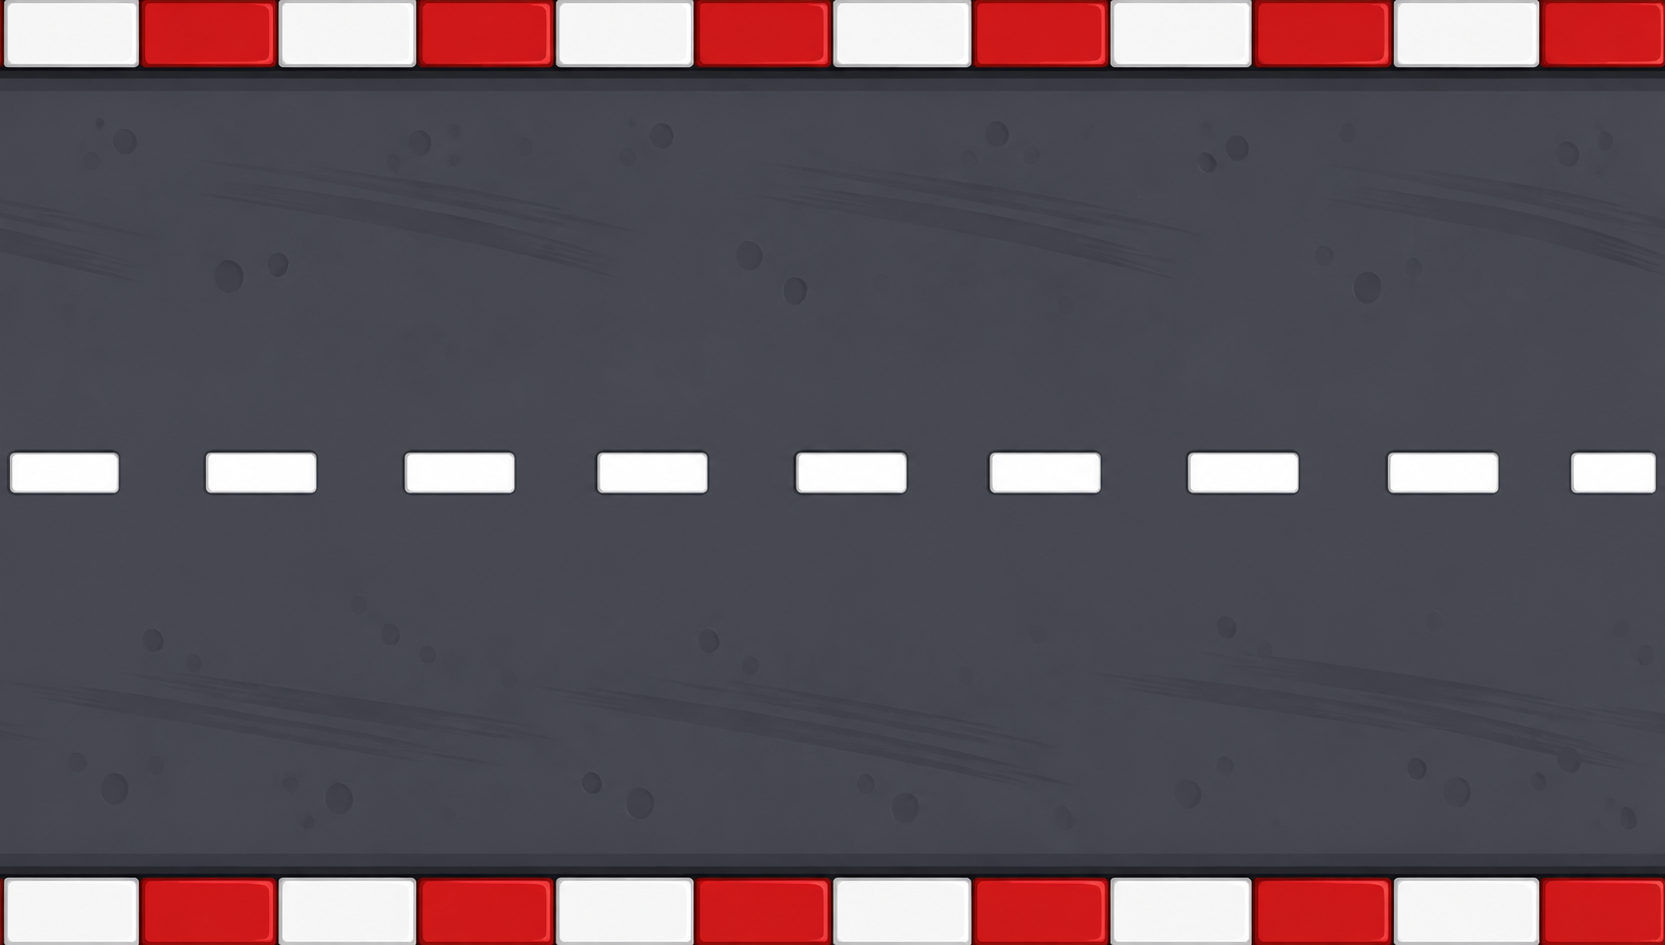
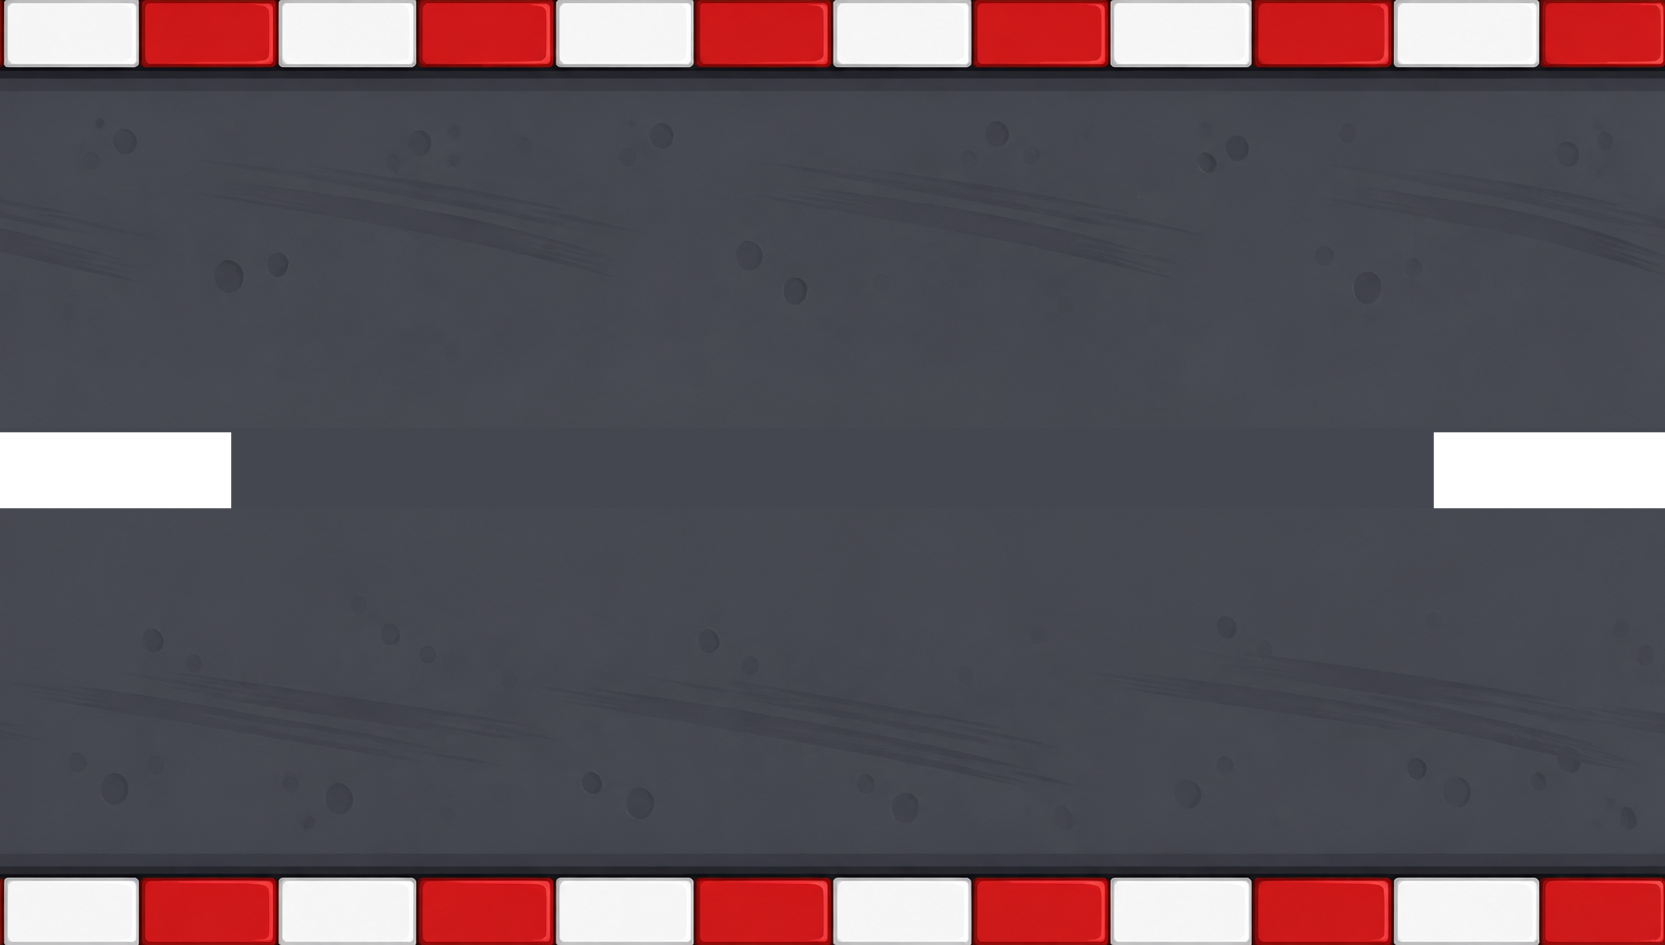
added game over screen

diff --git a/!.cpp b/!.cpp
@@ -37,6 +37,7 @@ const int STATE_MENU = 2;       // start screen
 const int STATE_HIGHSCORE = 3;  // high score screen
 int gameState = STATE_MENU;     // game starts on the menu
 int selectedOption = 0;         // 0 = Start Game, 1 = High Score, 2 = Quit
+int gameOverOption = 0;         // 0 = Play Again, 1 = Main Menu, 2 = Exit
 const string HIGH_SCORE_FILE = "highscore.txt";
 
 // player (position is stored as a grid cell, not pixels)
@@ -498,11 +499,35 @@ void drawHighScoreScreen(RenderWindow& window) {
     drawCenteredText(window, "Press ESC to Return to Menu", 24, 450, Color(180, 180, 180));
 }
 void drawGameOver(RenderWindow& window) {
-    drawRect(window, 0, 0, WINDOW_WIDTH, WINDOW_HEIGHT, Color(0, 0, 0, 200));   // dark layer
-    drawCenteredText(window, "GAME OVER", 60, 150, Color::Red);
-    drawCenteredText(window, "Score: " + to_string(score), 40, 250, Color::White);
-    drawCenteredText(window, "High Score: " + to_string(highScore), 40, 320, Color::Yellow);
-    drawCenteredText(window, "Press ENTER to Play Again", 30, 450, Color(200, 200, 200));
+    drawRect(window, 0, 0, WINDOW_WIDTH, WINDOW_HEIGHT, Color(20, 20, 30));
+    drawRect(window, 0, 0, WINDOW_WIDTH, 30, Color(40, 40, 60));
+    drawRect(window, 0, WINDOW_HEIGHT - 30, WINDOW_WIDTH, 30, Color(40, 40, 60));
+
+    drawCenteredText(window, "GAME OVER", 60, 110, Color::Red);
+    drawCenteredText(window, "Score: " + to_string(score) + "   |   High Score: " + to_string(highScore), 28, 195, Color::White);
+
+    if (gameOverOption == 0) {
+        drawCenteredText(window, "> Play Again", 32, 280, Color::Yellow);
+    }
+    else {
+        drawCenteredText(window, "  Play Again", 32, 280, Color::White);
+    }
+
+    if (gameOverOption == 1) {
+        drawCenteredText(window, "> Main Menu", 32, 340, Color::Yellow);
+    }
+    else {
+        drawCenteredText(window, "  Main Menu", 32, 340, Color::White);
+    }
+
+    if (gameOverOption == 2) {
+        drawCenteredText(window, "> Exit", 32, 400, Color::Yellow);
+    }
+    else {
+        drawCenteredText(window, "  Exit", 32, 400, Color::White);
+    }
+
+    drawCenteredText(window, "Up/Down or W/S to Move   |   Enter to Select", 22, 545, Color(180, 180, 180));
 }
 
 void drawPause(RenderWindow& window) {
@@ -522,6 +547,7 @@ void triggerGameOver() {
         highScore = score;
         saveHighScore();
     }
+    gameOverOption = 0;
     gameState = STATE_GAMEOVER;
 }
 
@@ -604,11 +630,40 @@ void handleEvents(RenderWindow& window) {
                 }
             }
             else if (gameState == STATE_GAMEOVER) {
-                // on the game over screen only Enter / Space matter
-                if (key == Keyboard::Key::Enter || key == Keyboard::Key::Space) {
+                if (key == Keyboard::Key::Up || key == Keyboard::Key::W) {
+                    gameOverOption = gameOverOption - 1;
+                    if (gameOverOption < 0) {
+                        gameOverOption = 2;
+                    }
+                    if (selectBuffer.getSampleCount() > 0) selectSound.play();
+                }
+                else if (key == Keyboard::Key::Down || key == Keyboard::Key::S) {
+                    gameOverOption = gameOverOption + 1;
+                    if (gameOverOption > 2) {
+                        gameOverOption = 0;
+                    }
+                    if (selectBuffer.getSampleCount() > 0) selectSound.play();
+                }
+                else if (key == Keyboard::Key::Enter) {
+                    if (selectBuffer.getSampleCount() > 0) selectSound.play();
+                    if (gameOverOption == 0) {
+                        restartGame();
+                    }
+                    else if (gameOverOption == 1) {
+                        selectedOption = 0;
+                        gameState = STATE_MENU;
+                    }
+                    else if (gameOverOption == 2) {
+                        window.close();
+                    }
+                }
+                else if (key == Keyboard::Key::Space) {
+                    if (selectBuffer.getSampleCount() > 0) selectSound.play();
                     restartGame();
                 }
                 else if (key == Keyboard::Key::Escape) {
+                    if (selectBuffer.getSampleCount() > 0) selectSound.play();
+                    selectedOption = 0;
                     gameState = STATE_MENU;
                 }
             }
@@ -729,16 +784,16 @@ int main() {
         else if (gameState == STATE_HIGHSCORE) {
             drawHighScoreScreen(window);
         }
+        else if (gameState == STATE_GAMEOVER) {
+            drawGameOver(window);
+        }
         else {
-            drawBackground(window);     // Member 2
-            drawCars(window);           // Member 2
-            drawPlayer(window);         // Member 1
-            drawHUD(window);            // Member 1
+            drawBackground(window);     
+            drawCars(window);           
+            drawPlayer(window);         
+            drawHUD(window);            
 
-            if (gameState == STATE_GAMEOVER) {
-                drawGameOver(window);
-            }
-            else if (isPaused == true) {
+            if (isPaused == true) {
                 drawPause(window);
             }
         }
